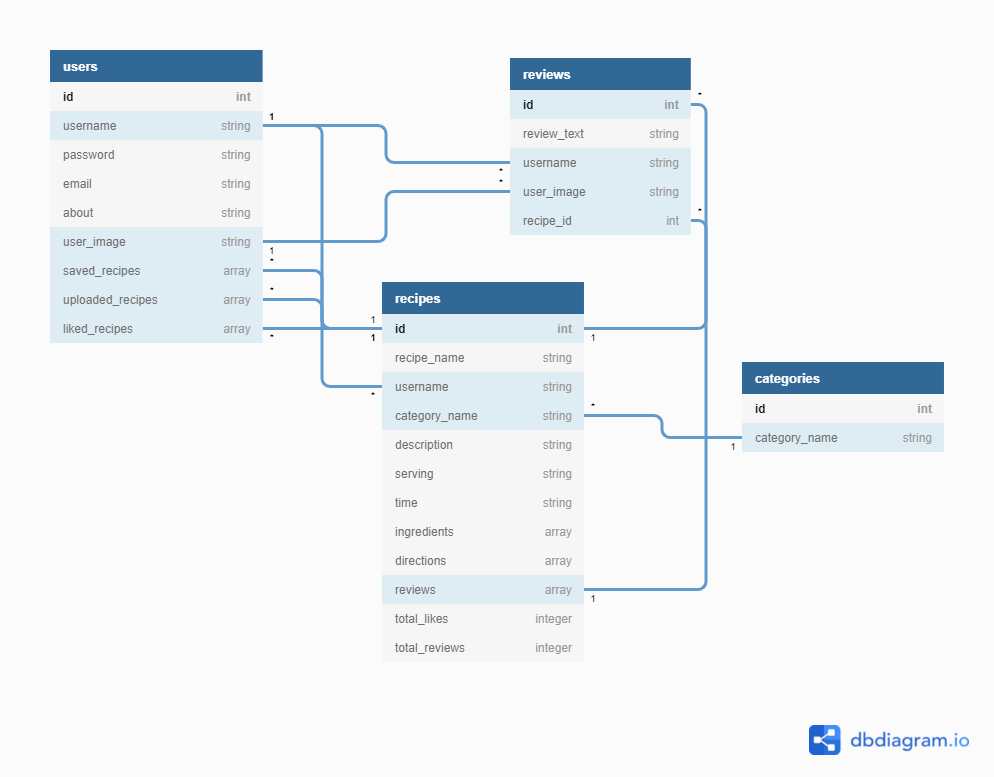
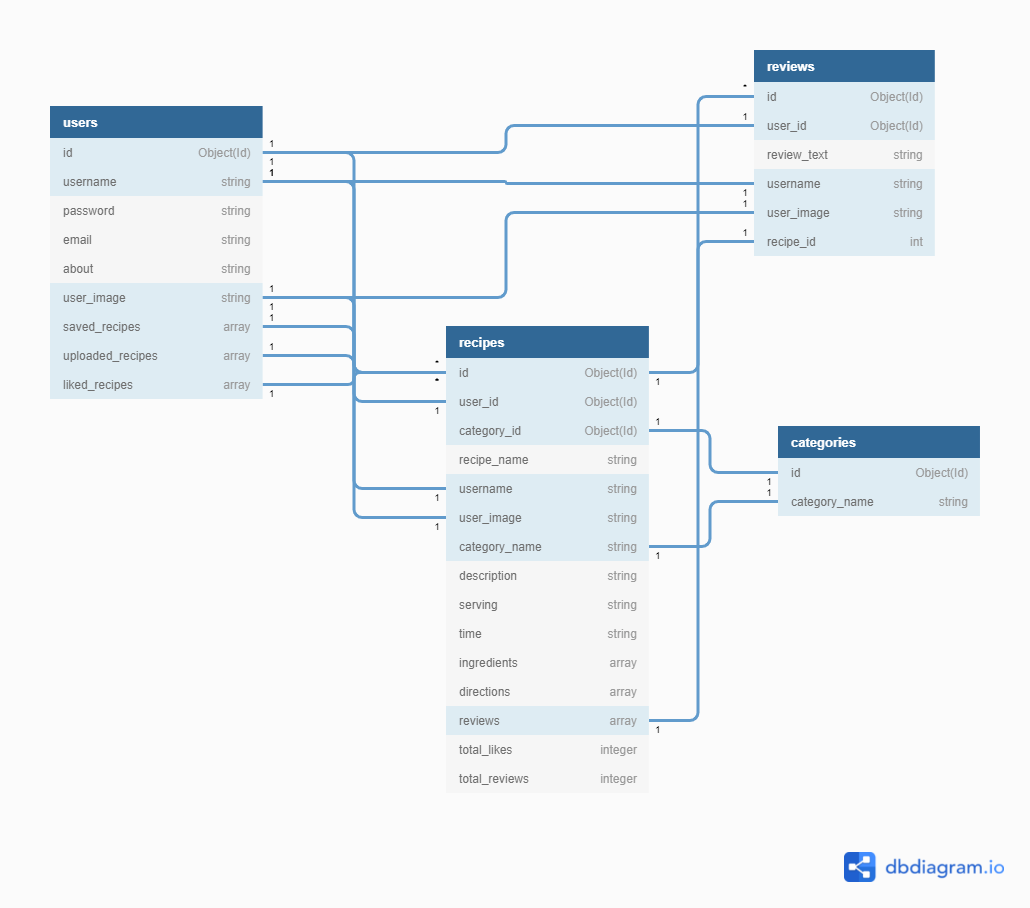
Change the database scheme, add Acknowledgement section, reorganize headers sizes

Changed region(s): [[0.0312, 0.0309, 0.9668, 0.8649], [0.8109, 0.9266, 0.9668, 0.9884]]

diff --git a/README.md b/README.md
@@ -160,11 +160,7 @@ Navigation to Home Page, Explore Recipes Page, View Profile Page, Create Recipe 
 * **Footer**: same navigation links as Navbar, with additional Contact Form and social media information.   
 
 
-#### **Database Structure**   
-Database schema was designed using [diagram.io](https://dbdiagram.io/home).   
-![Database structure](static/images/readme/database.png "Database structure")   
 
-<br/>   
 
 ### **4. Skeleton Plane**
 Wireframes/ mock-ups were created using Figma to design the navigation and interface of the website. For a better and clearer visualization before coding, and also to check if the color scheme and images match and work great together, the wireframes were created with such details, in three different device sizes: desktop, tablet, and mobile.   
@@ -207,6 +203,18 @@ All of the fonts were sourced from [Google Fonts](https://fonts.google.com).
 #### **Imagery**  
 - Hero Image was chosen because it’s bright, fun, and capturing attention on the first impression. It is also picturing various food items that corresponds to a recipe sharing web application. The hero image was chosen at the first stage of designing the site and determines the whole color theme of the website, thus it has a very important role.
 - The background image for all pages (excluding index.html) was actually the hero image without most of its drawing components. Using online editor [Photopea](https://www.photopea.com/), I edited the hero image.   
+
+
+#### **Database Structure**   
+Database schema was designed using [diagram.io](https://dbdiagram.io/home).   
+![Database structure](static/images/readme/database.png "Database structure")   
+
+The database is not a relational database, and MongoDB was used to store the database. There are 4 collections in the database, named:
+* Users 
+* Recipes  
+* Categories  
+* Reviews  
+  
 
 <br/>   
 
@@ -631,12 +639,12 @@ Once the copy of the repository has been created, the environment variables has 
 
 # **Credits**  
 ## **Code**  
-1. Code Institute video on Task Manager App.   
-   This code in this mini project was used as a main reference point to set up a project using MongoDB, flask, and jinja template, also build the core CRUD (Create, Read, Update, and Delete) functionalities in this project.  
+1. The code in Code Institute's video on Task Manager App was used as a main reference point to set up a project using MongoDB, flask, and jinja template, also build the core CRUD (Create, Read, Update, and Delete) functionalities in this project.  
 
-2. Other student's project [Rebecca Tracey](https://github.com/rebeccatraceyt/bake-it-til-you-make-it) and this [Github page](https://gist.github.com/mozillazg/69fb40067ae6d80386e10e105e6803c9).  
-   The code for pagination from these github pages were used for pagination in this project.   
-
+2. The code for pagination from these github pages were used for pagination in this project:   
+   - Other student's project [Rebecca Tracey](https://github.com/rebeccatraceyt/bake-it-til-you-make-it)  
+   - [This Github page](https://gist.github.com/mozillazg/69fb40067ae6d80386e10e105e6803c9).  
+      
 3. Fixed Navigation bar that dissapears on scroll down and appears again on scroll up was sourced from [this tutorial](https://bootstrap-menu.com/detail-autohide.html).    
 4. Feature to check passoword match on Sign Up page and Change Password page was sourced from [this StackOverflow page](https://stackoverflow.com/questions/21727317/how-to-check-confirm-password-field-in-form-without-reloading-page/21727518).  
 5. Add delete button except on the first field on Add Recipe page and Edit Recipe page (Ingredients and Directions) was sourced from [this StackOverflow page](https://stackoverflow.com/questions/20233721/how-do-you-index-on-a-jinja-template).   
@@ -646,12 +654,23 @@ Once the copy of the repository has been created, the environment variables has 
 9. Autoprefixer CSS was used to add different vendor prefixer to CSS. All css code was inserted [here](https://autoprefixer.github.io), and paste it back to the style.css.     
 
 
-## **Content**
-1. All recipes content and images in this website were sourced from [Allrecipes](https://www.allrecipes.com/) and Cookpad(https://cookpad.com/uk?via=jp)   
-2. Hero image was sourced from [Freepik](https://www.freepik.com/), edited by the developer.  
-3. Cookle logo was created from [Freelogodesign](https://www.freelogodesign.org/).  
-3. 404 and 500 error images were sourced from [Undraw](https://undraw.co/illustrations).  
+## **Contents**
+All recipes content and recipes images in this website were sourced from [Allrecipes](https://www.allrecipes.com/) and [Cookpad](https://cookpad.com/uk?via=jp)   
 
+### **Images and Icons**   
+* Hero image was sourced from [Freepik](https://www.freepik.com/), edited by the developer.  
+* Cookle logo was created from [Freelogodesign](https://www.freelogodesign.org/).  
+* 404 error image was sourced from [Undraw](https://undraw.co/illustrations).  
+
+<br/>  
+
+## **Acknowledgements**   
+   * My mentor, Oluwaseun Owonikoko, for the helpful feedback on every detail of the website.  
+   * Code Institute's Tutor Support, for the quick response and helfpful solutions.  
+   * My husband Sandi, for his daily continuous support and for testing the website across our mobile devices.  
+   * Slack community, as the first help to ask when I encountered a problem.  
+
+<br/>  
 
   
 
